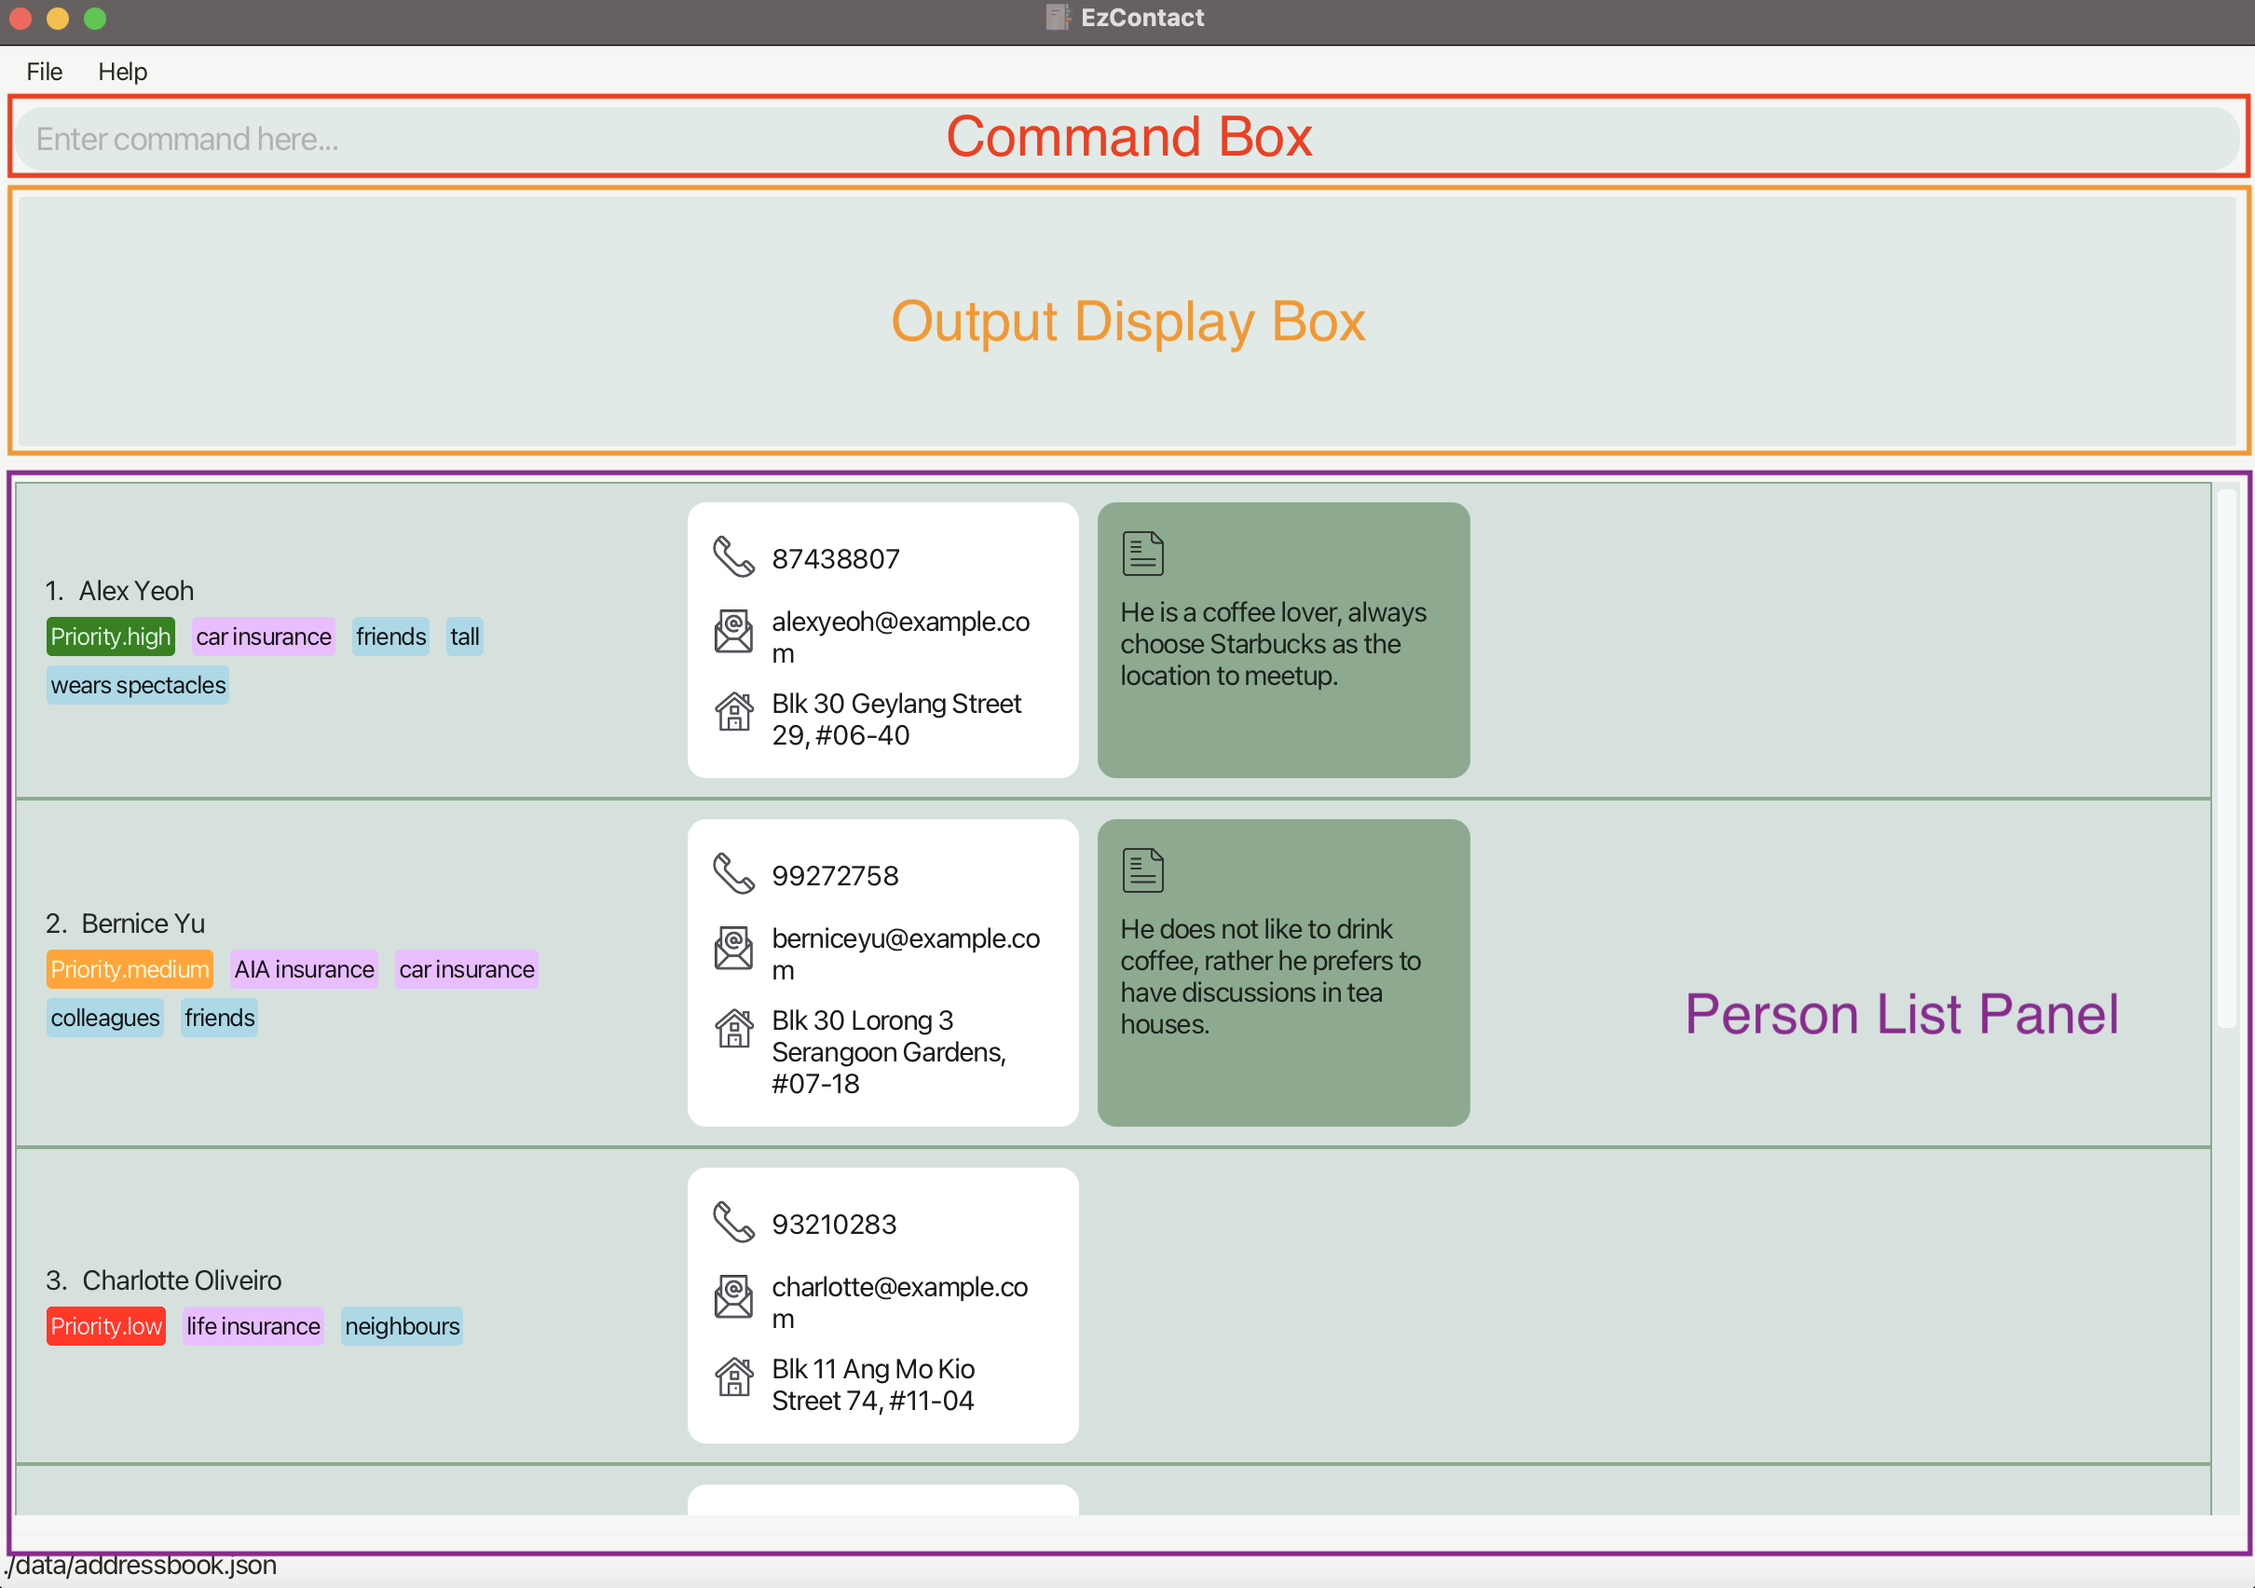
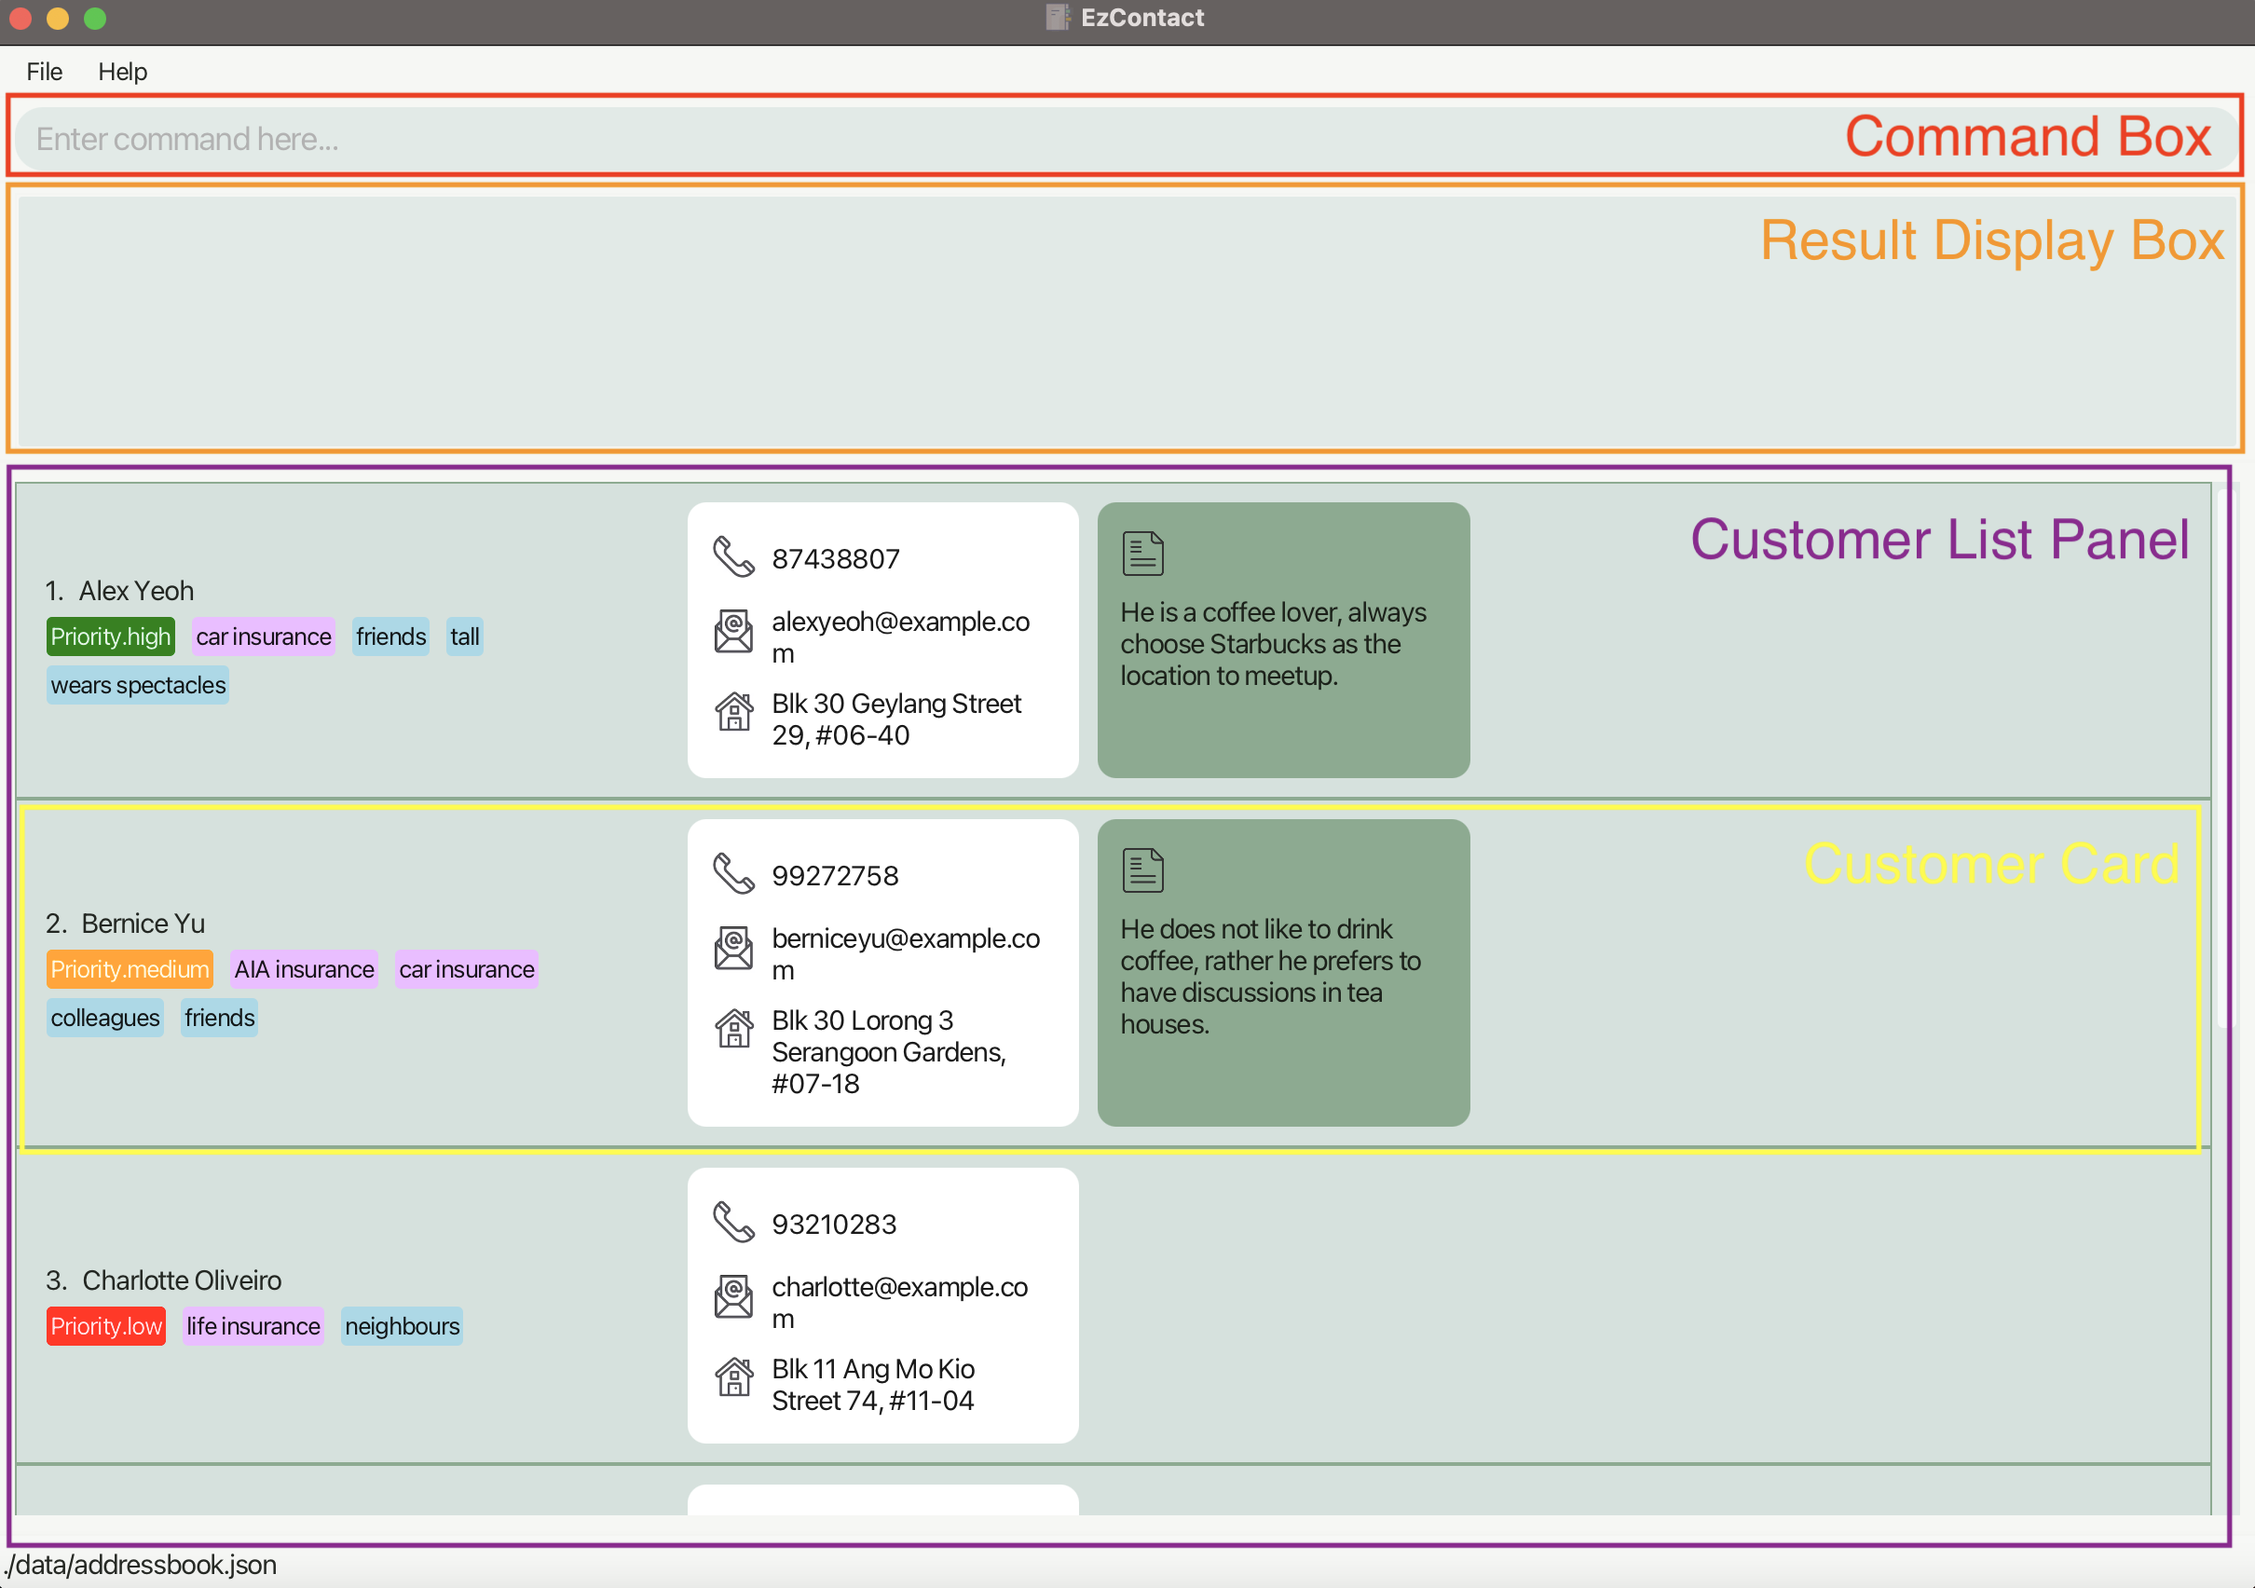
Update User Guide
Updated User Guide

Changed region(s): [[0.0, 0.0622, 1.0, 0.9953], [0.4029, 0.1866, 0.6198, 0.2177]]

diff --git a/src/main/java/seedu/address/model/person/Tag.java b/src/main/java/seedu/address/model/person/Tag.java
@@ -9,11 +9,13 @@ import static seedu.address.commons.util.AppUtil.checkArgument;
  */
 public class Tag {
 
-    public static final String MESSAGE_CONSTRAINTS =
-            "Tags names should be alphanumeric and not be empty nor longer than 20 characters.";
     public static final String VALIDATION_REGEX = "\\p{Alnum}+(\\s+\\p{Alnum}+)*";
     public static final int MAXIMUM_TAG_LENGTH = 20;
     public static final int MAXIMUM_TAGS_PER_PERSON = 10;
+
+    public static final String MESSAGE_CONSTRAINTS =
+            String.format("Tags names should be alphanumeric," +
+                    "non-empty and not longer than %d characters.", MAXIMUM_TAG_LENGTH);
 
     private final String tagName;
 

diff --git a/src/main/java/seedu/address/model/insurance/Insurance.java b/src/main/java/seedu/address/model/insurance/Insurance.java
@@ -15,7 +15,8 @@ public class Insurance {
     private static final int MAX_LENGTH = 32;
 
     public static final String MESSAGE_CONSTRAINTS =
-            String.format("Insurance name should be alphanumeric and should not exceed %d characters", MAX_LENGTH);
+            String.format("Insurance name should be alphanumeric," +
+                    "non-empty and not longer than %d characters", MAX_LENGTH);
     private String insuranceName;
 
     /**

diff --git a/src/main/java/seedu/address/model/person/Address.java b/src/main/java/seedu/address/model/person/Address.java
@@ -10,7 +10,7 @@ public abstract class Address {
     public static final int MAX_LENGTH = 100;
 
     public static final String MESSAGE_CONSTRAINTS =
-            "Address should be non-empty and not longer than 100 characters.";
+            "Address should not be longer than 100 characters.";
 
     /**
      * Creates and returns the {@code Address} object with value {@code address}.

diff --git a/src/main/java/seedu/address/model/person/Remark.java b/src/main/java/seedu/address/model/person/Remark.java
@@ -11,7 +11,7 @@ import java.util.Objects;
  */
 public class Remark {
 
-    public static final String MESSAGE_CONSTRAINTS = "Remark should  not be empty nor longer than 150 characters.";
+    public static final String MESSAGE_CONSTRAINTS = "Remark should not be longer than 150 characters.";
 
     private final String value;
 

diff --git a/docs/UserGuide.md b/docs/UserGuide.md
@@ -38,9 +38,10 @@ Consider the following UI split into three parts:
 As illustrated above, the UI will be split into three sections, we will be providing a name for each section and 
 will be using these names to refer to the section specified in the following User Guide.
 
-**Command Box**: Box for users to input the command to be executed by EzContact.<br/>
-**Output Display Box**: Box that displays the output of executing the entered command.<br/>
-**Person List Panel**: Panel that displays the person list.<br/>
+**Command Box:** Box for users to input the command to be executed by EzContact.<br/>
+**Result Display Box:** Box that displays the result of executing the entered command.<br/>
+**Customer List Panel:** Panel that displays whole list of Customer Cards.<br/>
+**Customer Card:** Card that displays information about each customer.<br/>
 
 -----------------------------------------------------------------------------------------------------------------------
 
@@ -71,9 +72,11 @@ will be using these names to refer to the section specified in the following Use
 
 ### Adding a customer: `add`
 
-**Adds a new customer to EZContact**.
+**Format:** 
 
-Format: `add n/<name> p/<phone number> e/<email> [a/<address>] [pr/<priority>] [t/<tag>]...`
+`add n/<name> p/<phone number> e/<email> [a/<address>] [pr/<priority>] [t/<tag>]... [i/<insurance>]... [r/<remark>]`
+
+**Description:**
 
 * Adds a new customer with the respective details to EzContact.
 
@@ -83,20 +86,25 @@ Format: `add n/<name> p/<phone number> e/<email> [a/<address>] [pr/<priority>] [
 * `<name>` should be **alphanumeric**, **non-empty** and **not longer than 64 characters**.
 * `<phone number>` should be an **8-digit number**(i.e. a Singapore number).
 * `<email>` should be a **valid email address**(i.e. `local-part@domain`).
-* `<address>` should be **non-empty** and **not longer than 100 characters**.
+* `<address>` should **not be longer than 100 characters**.
 * `<priority>` should **only be one of**: `high`, `medium`, `low`, `-`
-* `<tag>` should be **alphanumeric** and **not longer than 20 characters**.
-* A customer **must not have more than 10 tags** assigned to it.
+* `<tag>` should be **alphanumeric**, **non-empty** and **not longer than 20 characters**.
+* `<insurance>` should be **alphanumeric**, **non-empty** and **not longer than 32 characters**.
+* `<remark>` should **not be longer than 150 characters**.
+* A customer **must not have more than 10 tags** assigned to it. 
+* A customer **must not have more than 5 insurances** assigned to it.
 * Adding a customer with a `<phone number>` or `<email>` that **already exists** in EzContact is **not allowed**.
 </box>
 
-Examples:
-* `add n/John Doe p/98765432 e/johnd@example.com a/John street, block 123, #01-01 r/He is a coffee lover.`
-  * Adds the following Person to the [Person List Panel](#ui-layout-description)
-  ![AddEg1](images/add-command-examples/example1.png)
-* `add n/Ryan Ong p/64238876 e/ryanong@gmail.com t/tall t/skinny t/wears spectacles pr/medium`
-  * Adds the following Person to the [Person List Panel](#ui-layout-description)
-  ![AddEg2](images/add-command-examples/example2.png)
+**Examples:**
+
+`add n/John Doe p/98765432 e/johnd@example.com a/John street, block 123, #01-01 r/He is a coffee lover.`
+* Adds the following [Customer Card](#ui-layout-description) to the [Customer List Panel](#ui-layout-description)
+![AddEg1](images/add-command-examples/example1.png)
+
+`add n/Ryan Ong p/64238876 e/ryanong@gmail.com t/tall t/skinny t/wears spectacles pr/medium i/car insurance`
+* Adds the following [Customer Card](#ui-layout-description) to the [Customer List Panel](#ui-layout-description)
+![AddEg2](images/add-command-examples/example2.png)
 
 ### Listing all customers : `list`
 
@@ -180,34 +188,39 @@ Examples:
 
 ### Tagging a customer: `tag`
 
-**Updates the tags assigned to an existing customer**.
+**Format:**
 
-Format: `tag INDEX [at/TAG_TO_ADD]... [dt/TAG_TO_DELETE]...`
+`tag <index> [at/<tag to add>]... [dt/<tag to delete>]...`
 
-* Updates the tags assigned to the customer at `INDEX` in the displayed customer list.
+**Description:**
+
+* Updates the tags assigned to the customer at `<index>` in the displayed customer list.
 * Duplicate tags to add/delete will be ignored by EzContact.
 * Adding an existing tag or deleting a non-existing tag will be ignored by EzContact.
 
 <box type="warning" seamless>
 
 **Caution:**
-* **At least one** `TAG_TO_ADD` or `TAG_TO_DELETE` should be provided.
+* **At least one** `<tag to add>` or `<tag to delete>` should be provided.
 * Adding and deleting the same tag is **not allowed**.
-* `INDEX` should be a **positive integer** and **not exceed** the index of the last person in the displayed customer list.
-* `TAG_TO_ADD` and `TAG_TO_DELETE` should be **alphanumeric** and **not longer than 20 characters**.
-* The number of tags assigned to the customer after an update should **not exceed 10 tags**.
+* `<index>` should be a **positive integer** and **not exceed** the index of the last person in the displayed customer list.
+* `<tag to add>` and `<tag to delete>` should be **alphanumeric**, **non-empty** and **not longer than 20 characters**.
+* The number of tags assigned to the customer after the update should **not exceed 10 tags**.
+* The targeted customer's tags should **not remain unchanged** after the update command.
 
 </box>
 
-Examples:
+**Examples:**
 
-`tag 1 at/tall dt/short`
-* Adds `tall` tag to the first person.
-* Deletes `short` tag from the first person(ignored if the first person does not have `short` tag originally).
+`tag 3 at/ tall at/male dt/short dt/skinny`
+* Adds `tall` and `male` tags, delete `short` and `skinny` tags from the third customer in the displayed customer list.
 
-`tag 2 at/tall at/wears spectacles dt/short at/tall`
-* Adds `tall` and `wears spectacles` tag to the second person (duplicate `tall` is ignored).
-* Deletes `short` tag from the second person.
+Before:
+![TagEgBefore](images/tag-command-examples/before.png)
+
+After:
+![TagEgAfter](images/tag-command-examples/after.png)
+
 
 ### Updating priority of a customer: `pr`
 
@@ -270,14 +283,14 @@ _More coming soon ..._
 
 ## Command summary
 
-| Action       | Format and Examples                                                                                                                                                                               |
-|--------------|---------------------------------------------------------------------------------------------------------------------------------------------------------------------------------------------------|
-| **Add**      | `add n/NAME p/PHONE_NUMBER e/EMAIL [a/ADDRESS] [t/TAG]... [r/REMAEK]`          <hr>           `add n/James Ho p/22224444 e/jamesho@example.com a/123, Clementi Rd, 1234665 t/tall r/some remarks` |
-| **Delete**   | `delete INDEX`                                            <hr>       `delete 3`                                                                                                                   |
-| **Edit**     | `edit INDEX [n/NAME] [p/PHONE_NUMBER] [e/EMAIL] [a/ADDRESS] ` <hr> `edit 2 n/James Lee e/jameslee@example.com`                                                                                    |
-| **List**     | `list`                                                                      <hr>                                                                                                                  |
-| **Find**     | `find KEYWORD [MORE_KEYWORD]...`                     <hr>      `find Any Cho`                                                                                                                     |
-| **Tag**      | `tag INDEX [at/TAG_TO_ADD]... [dt/TAG_TO_DELETE]...`     <hr>         `tag 1 at/tall dt/short at/male`                                                                                            |
-| **Priority** | `pr INDEX NEW_PRIORITY`  <hr>  `pr 1 medium`                                                                                                                                                      |
-| **Remark**   | `remark INDEX r/ [REMARK]` <hr>  `remark 2 r/some remarks`                                                                                                                                        |
+| Action       | Format and Examples                                                                                                                                                                                 |
+|--------------|-----------------------------------------------------------------------------------------------------------------------------------------------------------------------------------------------------|
+| **Add**      | `add n/<name> p/<phone number> e/<email> [a/<address>] [pr/<priority>] [t/<tag>]... [i/<insurance>]... [r/<remark>]`          <hr>           `add n/James Ho p/22224444 e/jamesho@example.com a/123, Clementi Rd, 1234665 t/tall r/some remarks` |
+| **Delete**   | `delete INDEX`                                            <hr>       `delete 3`                                                                                                                     |
+| **Edit**     | `edit INDEX [n/NAME] [p/PHONE_NUMBER] [e/EMAIL] [a/ADDRESS] ` <hr> `edit 2 n/James Lee e/jameslee@example.com`                                                                                      |
+| **List**     | `list`                                                                      <hr>                                                                                                                    |
+| **Find**     | `find KEYWORD [MORE_KEYWORD]...`                     <hr>      `find Any Cho`                                                                                                                       |
+| **Tag**      | `tag <index> [at/<tag to add>]... [dt/<tag to delete>]...`     <hr>         `tag 1 at/tall dt/short at/male`                                                                                              |
+| **Priority** | `pr INDEX NEW_PRIORITY`  <hr>  `pr 1 medium`                                                                                                                                                        |
+| **Remark**   | `remark INDEX r/ [REMARK]` <hr>  `remark 2 r/some remarks`                                                                                                                                          |
 
